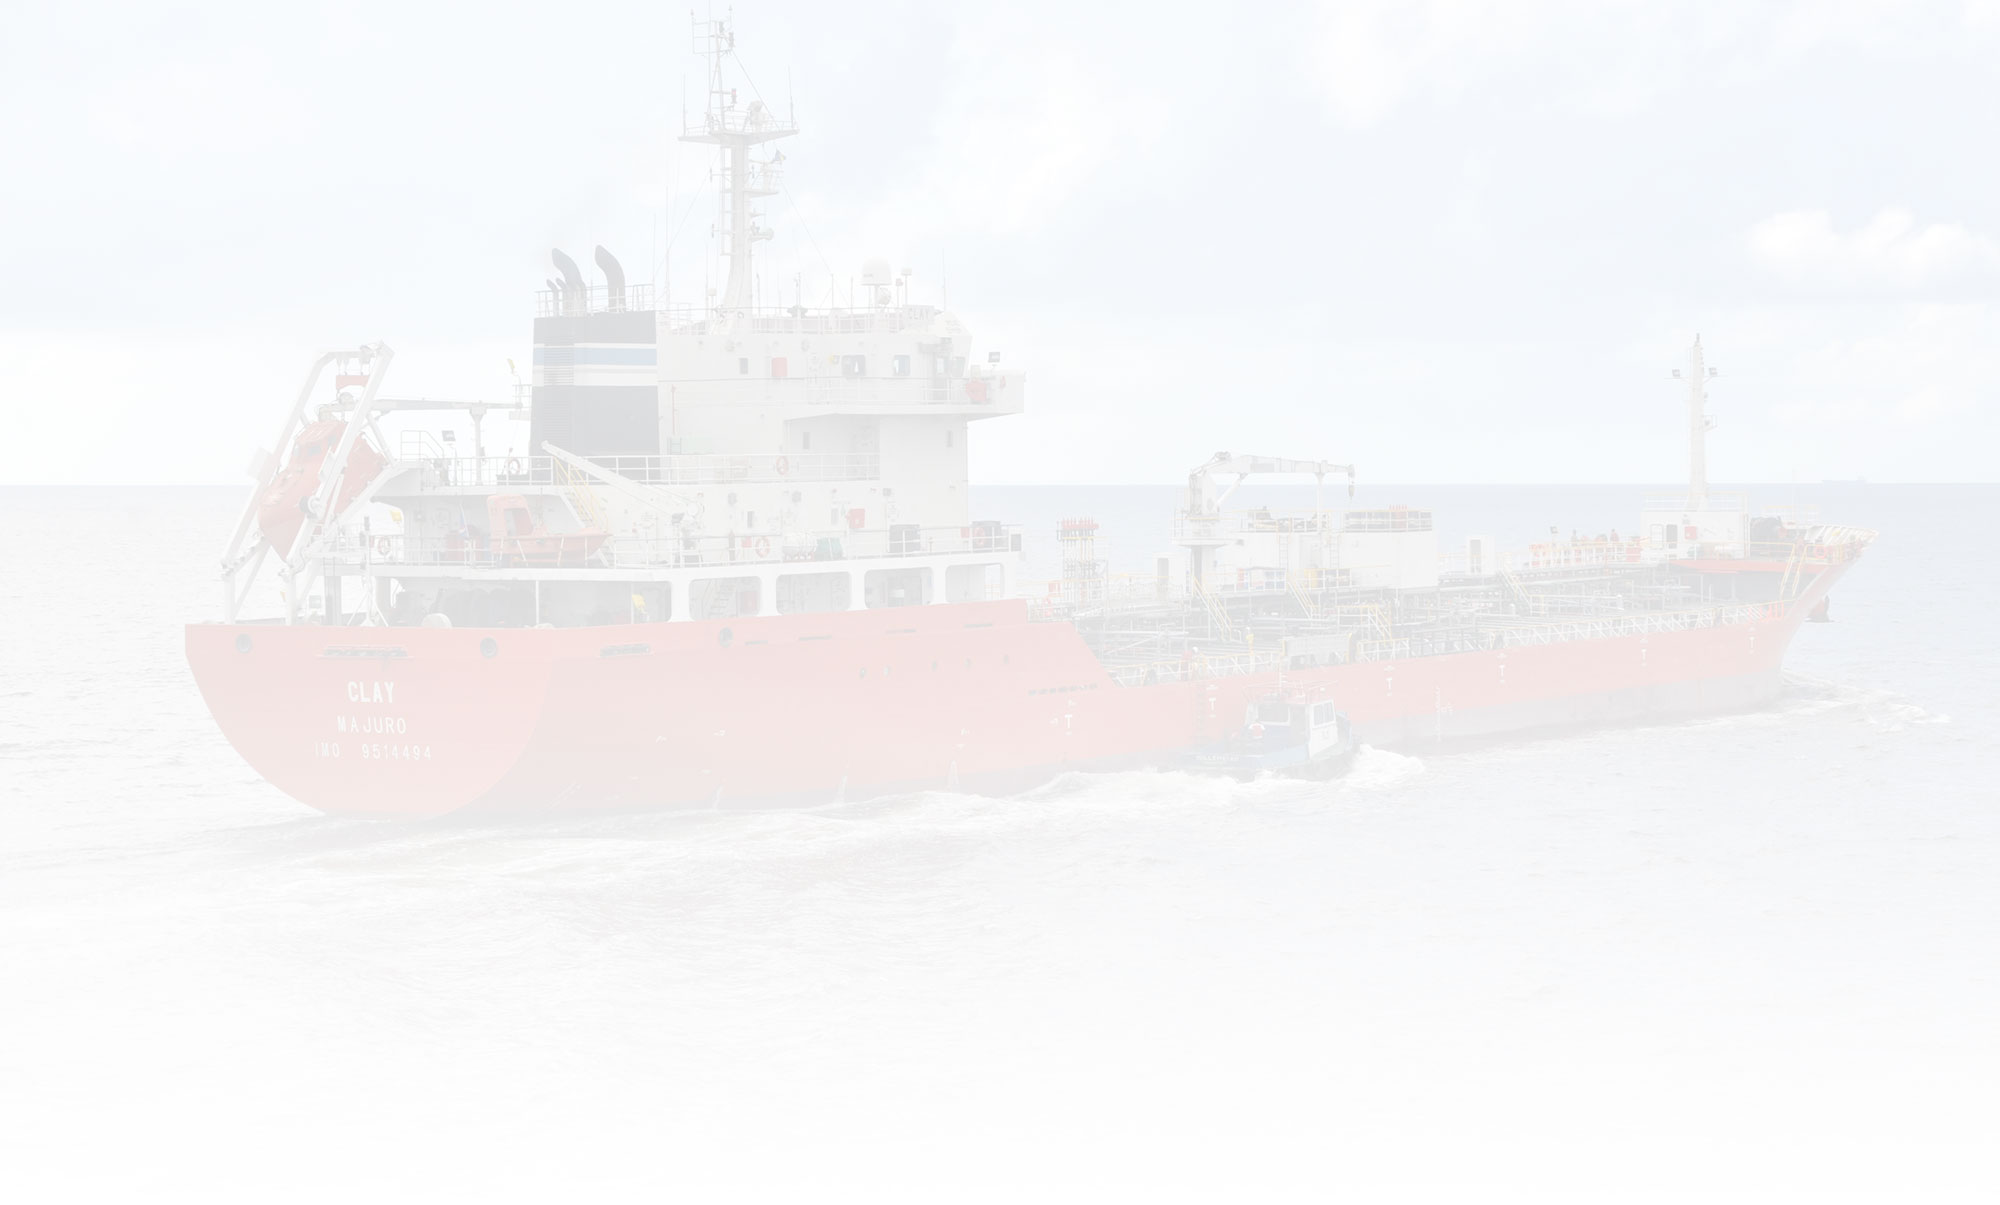
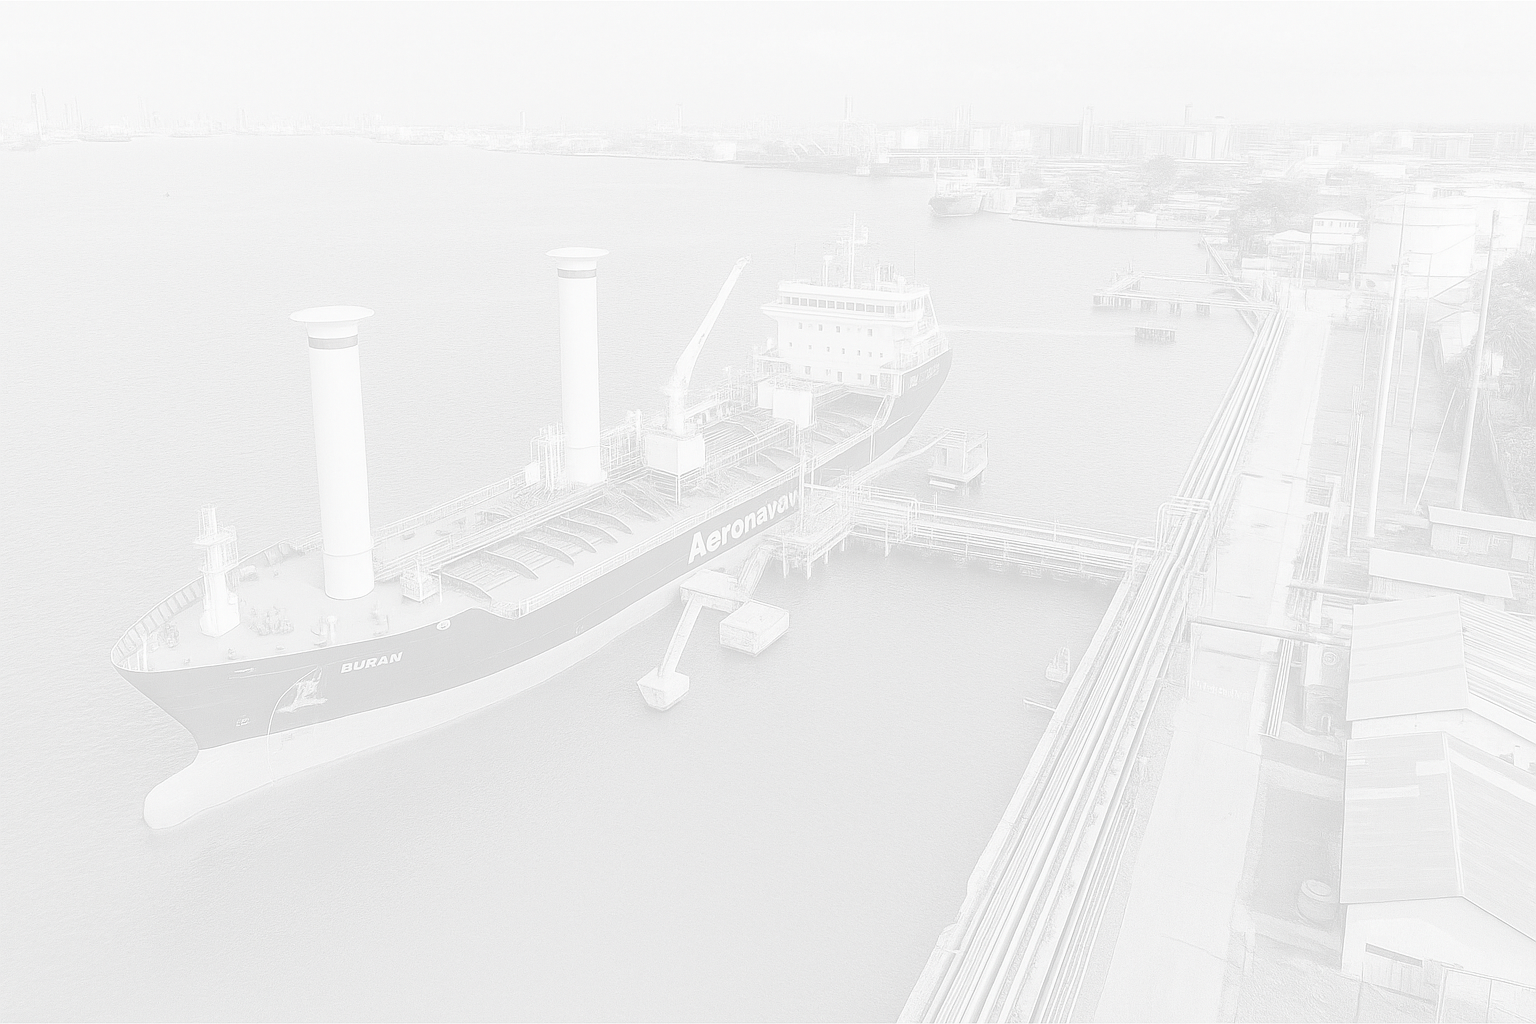
Refactor applicant courses component: update column definitions for improved data binding and enhance CSS for better layout.

diff --git a/src/app/Pages/logindata/ApplicantDetails/PersonalDetail/applicant-courses/applicant-courses.component.html b/src/app/Pages/logindata/ApplicantDetails/PersonalDetail/applicant-courses/applicant-courses.component.html
@@ -84,29 +84,27 @@
                   <div id="goal-list-scroll" class="table-responsive position-relative">
                     <mat-table #table1 [dataSource]="dataApplicantCoursesSource" matSort
                       class="table table-hover table-bordered mb-0 crew-table table-striped mat-cell">
-
-
-                      <ng-container matColumnDef="CourseId">
+                      <ng-container matColumnDef="courseName">
                         <mat-header-cell *matHeaderCellDef mat-sort-header>Course</mat-header-cell>
-                        <mat-cell *matCellDef="let row">{{row.authority.authorities}}</mat-cell>
+                        <mat-cell *matCellDef="let row">{{row.courseRegister?.courseName}}</mat-cell>
                       </ng-container>
 
-                      <ng-container matColumnDef="InstituteId">
+                      <ng-container matColumnDef="instituteName">
                         <mat-header-cell *matHeaderCellDef mat-sort-header>Institute</mat-header-cell>
-                        <mat-cell *matCellDef="let row">{{row.institutes.instituteName}}</mat-cell>
+                        <mat-cell *matCellDef="let row">{{row.institutes?.instituteName}}</mat-cell>
                       </ng-container>
 
-                      <ng-container matColumnDef="AuthorityId">
+                      <ng-container matColumnDef="authorities">
                         <mat-header-cell *matHeaderCellDef mat-sort-header>Authority</mat-header-cell>
-                        <mat-cell *matCellDef="let row">{{row.authority.authorities }}</mat-cell>
+                        <mat-cell *matCellDef="let row">{{row.authority?.authorities }}</mat-cell>
                       </ng-container>
 
-                      <ng-container matColumnDef="CertificateNumber">
+                      <ng-container matColumnDef="certificateNumber">
                         <mat-header-cell *matHeaderCellDef mat-sort-header>Certificate Number</mat-header-cell>
                         <mat-cell *matCellDef="let row">{{row.certificateNumber}}</mat-cell>
                       </ng-container>
 
-                      <ng-container matColumnDef="PlaceOfIssue">
+                      <ng-container matColumnDef="placeOfIssue">
                         <mat-header-cell *matHeaderCellDef mat-sort-header>Place of Issue</mat-header-cell>
                         <mat-cell *matCellDef="let row">{{row.placeOfIssue}}</mat-cell>
                       </ng-container>
@@ -124,13 +122,13 @@
                       <mat-cell *matCellDef="let row">{{row.placeOfIssue}}</mat-cell>
                     </ng-container> -->
 
-                      <ng-container matColumnDef="IssueDate">
+                      <ng-container matColumnDef="issueDate">
                         <mat-header-cell *matHeaderCellDef mat-sort-header>Issue Date</mat-header-cell>
                         <mat-cell *matCellDef="let row">{{row.issueDate
                           | date: 'dd-MMM-yyyy'}}</mat-cell>
                       </ng-container>
 
-                      <ng-container matColumnDef="ExpiryDate">
+                      <ng-container matColumnDef="expiryDate">
                         <mat-header-cell *matHeaderCellDef mat-sort-header>Expiry Date</mat-header-cell>
                         <mat-cell *matCellDef="let row">{{row.expiryDate
                           | date: 'dd-MMM-yyyy'}}</mat-cell>

diff --git a/src/app/Pages/logindata/ApplicantDetails/PersonalDetail/ApplicantDocument/applicant-license/applicant-license.component.html b/src/app/Pages/logindata/ApplicantDetails/PersonalDetail/ApplicantDocument/applicant-license/applicant-license.component.html
@@ -85,13 +85,13 @@
 
                     <ng-container matColumnDef="authorities">
                       <mat-header-cell *matHeaderCellDef mat-sort-header>Authorities</mat-header-cell>
-                      <mat-cell *matCellDef="let row">{{row.authority.authorities}}</mat-cell>
+                      <mat-cell *matCellDef="let row">{{row.authority?.authorities}}</mat-cell>
                     </ng-container>
 
 
                     <ng-container matColumnDef="licenceName">
                       <mat-header-cell *matHeaderCellDef mat-sort-header>Licence Name</mat-header-cell>
-                      <mat-cell *matCellDef="let row">{{row.licenceRegister.licenceName }}</mat-cell>
+                      <mat-cell *matCellDef="let row">{{row.licenceRegister?.licenceName }}</mat-cell>
                     </ng-container>
 
                     <ng-container matColumnDef="licenseNumber">
@@ -101,7 +101,7 @@
 
                     <ng-container matColumnDef="countryId">
                       <mat-header-cell *matHeaderCellDef mat-sort-header>Country</mat-header-cell>
-                      <mat-cell *matCellDef="let row">{{row.country.countryName }}</mat-cell>
+                      <mat-cell *matCellDef="let row">{{row.country?.countryName }}</mat-cell>
                     </ng-container>
 
                     <ng-container matColumnDef="attachment">

diff --git a/src/app/Pages/logindata/ApplicantDetails/PersonalDetail/applicant-courses/applicant-courses.component.ts b/src/app/Pages/logindata/ApplicantDetails/PersonalDetail/applicant-courses/applicant-courses.component.ts
@@ -26,7 +26,7 @@ export class ApplicantCoursesComponent implements OnInit {
   applicantApplicantCourses: any;
   ApplicantCourses: any[];
   loadingState = false;
-  displayedApplicantCoursesColumns = ['CourseId', 'InstituteId', 'AuthorityId', 'CertificateNumber', 'PlaceOfIssue', 'IssueDate', 'ExpiryDate', 'actions'];
+  displayedApplicantCoursesColumns = ['courseName',  'certificateNumber', 'placeOfIssue', 'issueDate', 'expiryDate', 'instituteName', 'authorities','actions'];
   dataApplicantCoursesSource = new MatTableDataSource<any>();
   userstatus: any;
   @ViewChild(MatPaginator, { static: false }) paginator: MatPaginator;

diff --git a/src/app/Pages/logindata/ApplicantDetails/PersonalDetail/applicant-courses/applicant-courses.component.css b/src/app/Pages/logindata/ApplicantDetails/PersonalDetail/applicant-courses/applicant-courses.component.css
@@ -29,3 +29,17 @@ html body.fixed-navbar{padding-top:0px !important}
     overflow: auto;
     -webkit-overflow-scrolling: touch;
 }
+
+
+.mat-column-courseName {
+  flex: 0 0 200px;
+  }
+  .mat-column-instituteName {
+  flex: 0 0 200px;
+  }
+  .mat-column-AuthorityId {
+  flex: 0 0 200px;
+  }
+.mat-column-actions {
+  flex: 0 0 70px;
+  }
